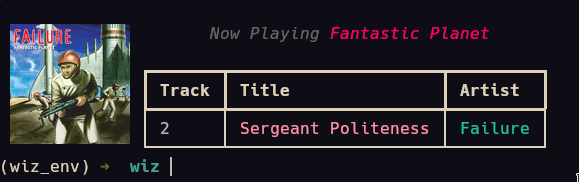
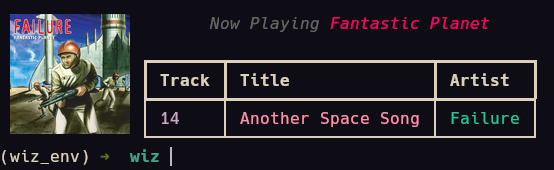
full code

diff --git a/now_playing.py b/now_playing.py
@@ -28,42 +28,50 @@ params = {
         "f": "json"
         }
 
-r1 = requests.get(get_url, params=params)
-data = r1.json()
+async def poll_music():
+    last_title = None
+    while True:
+        r1 = requests.get(get_url, params=params)
+        data = r1.json()
 
-entries = data["subsonic-response"]["nowPlaying"]["entry"]
+        entries = data["subsonic-response"]["nowPlaying"]["entry"]
 
-if not entries:
-    print("[#ff0000]Nothing currently playing[/#ff0000]")
-    exit()
-entry = entries[-1]
+        if not entries:
+            print("[#ff0000]Nothing currently playing[/#ff0000]")
+            exit()
+        entry = entries[-1]
 
-title = entry["title"]
-album = entry["album"]
-artist = entry["artist"]
-track_no = entry["track"]
-cover_art_id = entry["coverArt"]
+        title = entry["title"]
+        if title == last_title:
+            await asyncio.sleep(5)
+            continue
+        last_title = title
+        album = entry["album"]
+        artist = entry["artist"]
+        track_no = entry["track"]
+        cover_art_id = entry["coverArt"]
 
-album_art_params = {
-        **params,
-        "id": cover_art_id
+        album_art_params = {
+            **params,
+            "id": cover_art_id
         }
 
-r2 = requests.get(album_art_url, params=album_art_params)
+        r2 = requests.get(album_art_url, params=album_art_params)
 
-with open("cover.jpg", "wb") as f:
-    f.write(r2.content)
+        with open("cover.jpg", "wb") as f:
+            f.write(r2.content)
+    
+        subprocess.run(["clear"])
+        subprocess.run(["kitty","+kitten","icat","--place","12x12@1x1","cover.jpg"])
 
-subprocess.run(["clear"])
-subprocess.run(["kitty","+kitten","icat","--place","12x12@1x1","cover.jpg"])
+        table = Table(title=f"[#666666]Now Playing[/#666666] [#ff0066]{album}[/#ff0066]")
+        table.add_column("Track")
+        table.add_column("Title")
+        table.add_column("Artist")
 
-table = Table(title=f"[#666666]Now Playing[/#666666] [#ff0066]{album}[/#ff0066]")
-table.add_column("Track")
-table.add_column("Title")
-table.add_column("Artist")
-
-table.add_row(f"[#c8a8c8]{track_no}[/#c8a8c8]",f"[#ff8fab]{title}[/#ff8fab]",f"[#20c498]{artist}[/#20c498]")
-console.print(Padding(table, (0,0,0,14)))
+        table.add_row(f"[#c8a8c8]{track_no}[/#c8a8c8]",f"[#ff8fab]{title}[/#ff8fab]",f"[#20c498]{artist}[/#20c498]")
+        console.print(Padding(table, (0,0,0,14)))
+        await asyncio.sleep(5)
 
 img = Image.open("cover.jpg").convert("RGB")
 img = img.resize((64,64))
@@ -80,27 +88,52 @@ sorted_colors = sorted(filtered,key=lambda x: x[0],reverse=True)
 top_hues = []
 
 for item in sorted_colors:
-    hue = item[1] / 32
+    hue = (item[1] + 0.5) / 32
     if hue not in top_hues:
         top_hues.append(hue)
     if len(top_hues) == 5:
         break
+top_hues.sort()
 
 def hsv2rgb(hue,s=1.0,v=1.0):
     r,g,b = colorsys.hsv_to_rgb(hue,s,v)
     return (int(r*255),int(g*255),int(b*255))
 
-best_color = hsv2rgb(top_hues[1])
+'''for i in range (0,5):
+    print(hsv2rgb(top_hues[i]))
+print("these are the 5 colors")'''
+
+transition_time = 60
+def transition(a,b,t):
+    return a + (b - a) * t
+
+async def light_update():
+    light = wizlight("192.168.0.10")
+    while True:
+        for i in range(len(top_hues)):
+            start_hue = top_hues[i]
+            end_hue = top_hues[(i+1) % len(top_hues)]
+            diff = end_hue - start_hue
+            if abs(diff) > 0.5:
+                if diff > 0:
+                    start_hue += 1
+                else:
+                    end_hue += 1
+            steps = 60
+
+            for step in range(steps):
+                t = step/steps
+                cur_hue = transition(start_hue, end_hue, t)
+                cur_hue %= 1.0
+                color = hsv2rgb(cur_hue)
+                #print(color)
+                await light.turn_on(PilotBuilder(rgb = color))
+                await asyncio.sleep(transition_time/steps)
 
 async def main():
-    light = wizlight("192.168.0.10")
-    for hue in top_hues:
-        color = hsv2rgb(hue)
-        #print(color)
-        await light.turn_on(PilotBuilder(rgb = color))
-        await asyncio.sleep(1)
-print(best_color)
+    await asyncio.gather(
+        poll_music(),
+        light_update()
+        )
 
-
-loop = asyncio.get_event_loop()
-loop.run_until_complete(main())
+asyncio.run(main())
